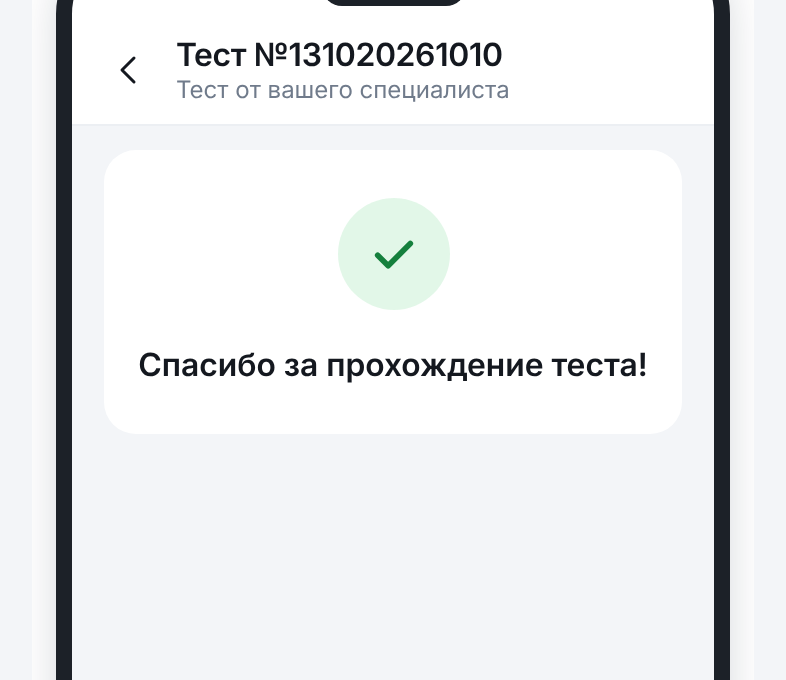
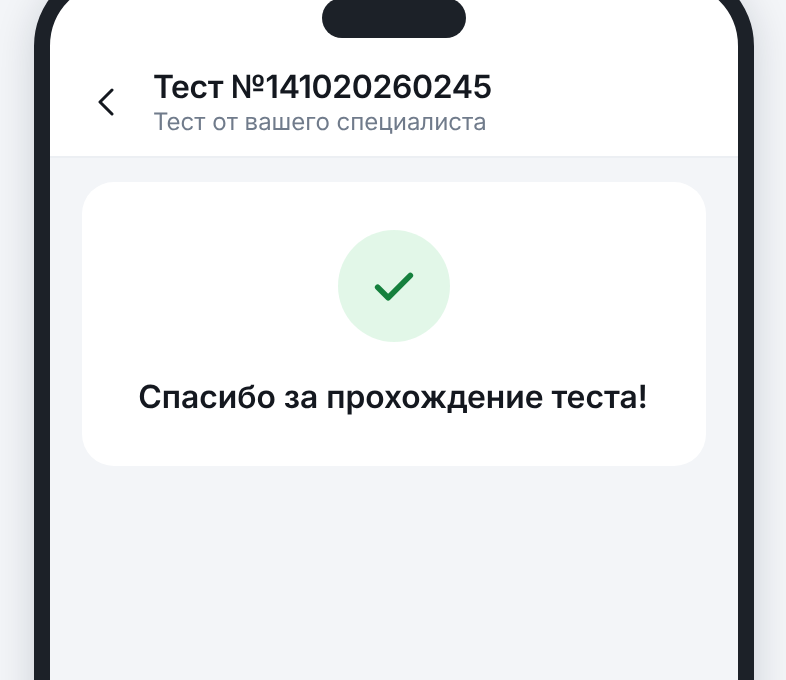
Предпросмотр в настройках: только вкладки и телефон, без карточки; скриншоты подсказок обновлены
Claude-Session: https://claude.ai/code/session_01PkfaRYH7Rjk9UeiToMFzDy

diff --git a/src/components/TestSettings/TaskPreview.tsx b/src/components/TestSettings/TaskPreview.tsx
@@ -2,7 +2,6 @@ import { useEffect, useRef, useState, type TouchEvent } from 'react';
 import type { LibraryTask } from '../../data/library';
 import { emptyValues, progressOf, type PermanentRule, type TaskSettingsData, type TaskValues } from '../../data/taskValues';
 import { ClientIntro, TaskDone, taskFacts } from './ClientParts';
-import { CollapseCard } from './TestBlank';
 import { FillMeter, taskSteps } from './PassParts';
 import { TaskForm } from './TaskForm';
 import { TestHeader } from './TestHeader';
@@ -74,8 +73,7 @@ export function TaskPreview({ task, data, form, options, deadline, permanent }: 
   };
 
   return (
-    <CollapseCard title="Предпросмотр" id="preview">
-    <div className="tp tp--inline" onTouchStart={onTouchStart} onTouchEnd={onTouchEnd}>
+        <div id="preview" className="tp tp--inline" onTouchStart={onTouchStart} onTouchEnd={onTouchEnd}>
       <div className="tp__tabs" role="group" aria-label="Этап выполнения">
         {STAGES.map(({ id, label }) => (
           <button key={id} type="button" className={`tp__tab${stage === id ? ' tp__tab--on' : ''}`} aria-pressed={stage === id} onClick={() => setStage(id)}>
@@ -129,6 +127,5 @@ export function TaskPreview({ task, data, form, options, deadline, permanent }: 
         )}
       </div>
     </div>
-    </CollapseCard>
-  );
+      );
 }

diff --git a/src/components/TestSettings/TestPreview.tsx b/src/components/TestSettings/TestPreview.tsx
@@ -3,7 +3,6 @@ import type { LibraryTest } from '../../data/library';
 import { blindTitle, type ResultMode } from '../../data/resultMode';
 import type { TestBlankData } from '../../data/testBlank';
 import { ClientIntro, testFacts } from './ClientParts';
-import { CollapseCard } from './TestBlank';
 import { FillMeter } from './PassParts';
 import { TestDone } from './TestDone';
 import { TestHeader } from './TestHeader';
@@ -97,8 +96,7 @@ export function TestPreview({ test, blank, blind, result, duration }: TestPrevie
 
   return (
     <>
-      <CollapseCard title="Предпросмотр" id="preview">
-      <div className="tp tp--inline" onTouchStart={onTouchStart} onTouchEnd={onTouchEnd}>
+            <div id="preview" className="tp tp--inline" onTouchStart={onTouchStart} onTouchEnd={onTouchEnd}>
         <div className="tp__tabs" role="group" aria-label="Этап прохождения">
           {STAGES.map(({ id, label }) => (
             <button key={id} type="button" className={`tp__tab${stage === id ? ' tp__tab--on' : ''}`} aria-pressed={stage === id} onClick={() => toStage(id)}>
@@ -159,8 +157,7 @@ export function TestPreview({ test, blank, blind, result, duration }: TestPrevie
           )}
         </div>
       </div>
-      </CollapseCard>
-
+      
       {jumpOpen && (
         <JumpSheet
           total={total}

diff --git a/src/data/optionHelp.ts b/src/data/optionHelp.ts
@@ -51,14 +51,14 @@ export const OPTION_HELP: Record<OptionHelpId, OptionHelp> = {
         alt: 'Экран клиента: в шапке значок и полное название теста',
         title: 'Обычный тест',
         text: 'Клиент видит значок и название методики — он может догадаться, что именно желает проверить специалист.',
-        mark: { x: 21.37, y: 51.91, w: 68.45, h: 12.94 },
+        mark: { x: 18.45, y: 33.09, w: 74.3, h: 12.94 },
       },
       {
         src: blindOn,
         alt: 'Экран клиента: в шапке вместо названия «Тест №» с датой и временем отправки',
         title: 'Слепое тестирование',
         text: 'Значок и название методики скрываются для клиента — иногда, когда не знаешь, что выполняешь, ответы честнее.',
-        mark: { x: 21.37, y: 51.91, w: 68.45, h: 12.94 },
+        mark: { x: 18.45, y: 33.09, w: 74.3, h: 12.94 },
       },
       {
         src: blindChat,

diff --git a/src/components/TestSettings/TestPreview.css b/src/components/TestSettings/TestPreview.css
@@ -6,9 +6,9 @@
   gap: var(--space-3);
 }
 
-/* Блок внутри настроек: поля 12, рамка телефона фиксированной высоты (страница настроек прокручивается, экран внутри рамки — отдельно) */
+/* Предпросмотр внутри настроек, без карточки: вкладки этапов и рамка телефона фиксированной высоты (страница настроек прокручивается, экран внутри рамки — отдельно) */
 .tp--inline {
-  padding: var(--space-3);
+  flex-shrink: 0;
 }
 
 .tp--inline .tp__phone {

diff --git a/scripts/help-shots.py b/scripts/help-shots.py
@@ -187,7 +187,7 @@ def main():
                 phone.close()
 
         if want('result'):
-            # Итог для клиента: блок «Предпросмотр», этап «Конец» (кадр с y = 220; рамок нет)
+            # Итог для клиента: блок «Предпросмотр», этап «Конец» (кадр с y = 140; рамок нет)
             for name, mode in (('result-thanks', 'Только благодарность'), ('result-score', 'Только баллы'), ('result-full', 'Полное заключение')):
                 phone = Phone(p, args.base)
                 phone.open_smol()
@@ -199,7 +199,7 @@ def main():
                 phone.page.get_by_role('button', name='Конец').click()
                 phone.wait(900)
                 phone.page.evaluate("document.querySelector('#preview').scrollIntoView({block: 'start'})")
-                shots.take(phone, name, 220)
+                shots.take(phone, name, 140)
                 phone.close()
 
     print('Рамки для optionHelp.ts (mark):')

diff --git a/README.md b/README.md
@@ -87,7 +87,7 @@ npm run dev
 - В заключении теста у блока «Основные шкалы» (если шкал больше трёх: СМОЛ, SQ, ИТО) в заголовке стоит кнопка порядка: как в тесте → от большего к меньшему → от меньшего к большему (`ScaleSort.tsx`, `TestConclusion.tsx`); номера шкал считаются по месту на экране, «Дополнительные» шкалы всегда идут в порядке теста.
 - Настройки теста: форма бланка выбирается в меню (`FormMenu.tsx`, пояснение про нормы стоит в самом меню) и считывается при прохождении, самого выбора формы при прохождении нет; бланк начинается блоком «Инструкция» (тексты в `data/testBlank.ts` взяты из открытых источников и подогнаны под варианты ответов в приложении); Экран клиента (тест или задание, присланное специалистом или отправленное себе: «Избранное» → «Пройти») собран из тех же блоков, что и самостоятельное прохождение: серый фон, белые карточки, внизу счётчик и кнопки. Это те же `TestPass.tsx` и `TaskPass.tsx`, им передан параметр `client`; клиенту добавлены только блок «Сообщение специалиста», карточка со сведениями (число вопросов или записей и время, срок, «ответы можно менять», кто увидит результат) и в конце карточка «Спасибо» (`ClientParts.tsx`, `TestDone.tsx`); в шапке нет «избранного», а у слепого теста нет значка и название нейтральное. «Предпросмотр теста» (`TestPreview.tsx`) показывает этот же экран в рамке телефона (занимает всё свободное место экрана, сверху неподвижная шторка с «островком», кнопки внизу всегда видны): начало, вопрос с ответами и завершение; между этапами можно листать свайпом, «Назад» на первом вопросе возвращает к началу; блок «Итог для клиента» (`ResultChoice.tsx`, `data/resultMode.ts`) задает, что клиент увидит после теста: благодарность (по умолчанию), баллы или полное заключение; инструкция показана обычными абзацами без номеров
 - Настройки задания (`TaskSettings.tsx`) собраны по образцу экрана теста; сейчас они есть у девяти заданий: «Что я должен?», «Если никто не узнает», «Фраза, которую я запомнил», «Выбор без правильного ответа», «Пирог ответственности», «Дневник СМЭР», «Отложенное беспокойство», «Поведенческая активация» и «Поиск доказательств». Тексты, правила, разделы бланка, пример и объём лежат в `data/taskContent.ts` (типы и общие функции — в `taskValues.ts`, чтобы главный пакет не тянул тексты; `TASKS_WITH_SETTINGS` перечисляет задания с настройками). Бланк рисует один общий `TaskForm.tsx` (предложение с выбором начала, текст, ползунок процентов, «пирог» из факторов; доля клиента — остаток до 100; шкала 0–10 `scale`, выбор `choice` — один списком, несколько чипсами, список строк `list` и записи `entries` — повторяющиеся наборы полей по группам, которые клиент добавляет и убирает, до семи): он же в бланке и примере в настройках, в прохождении (`TaskPass.tsx`; счётчик «Заполнено» и окна подтверждения общие с тестом, `PassParts.tsx`), в экране клиента, в предпросмотре в рамке телефона (`TaskPreview.tsx`) и в результате (`TaskResult.tsx`). При выполнении (и в предпросмотре) задание идёт страницами: инструкция, поля бланка, затем «Комментарий» и «Как вы себя чувствуете?», если они включены в настройках; переход — «Далее», на последней странице «Завершить задание» (`TaskForm` показывает нужную страницу по параметру `only`, порядок задаёт `taskSteps` в `PassParts.tsx`). Если в бланке задан `pages` (группы разделов), страницы идут по нему: у «Поиска доказательств» каждый раздел отдельно, у «Пирога ответственности» — событие с оценкой «до», «что повлияло», оценка «после» с комментарием; у «Отложенного беспокойства» каждое беспокойство — отдельная страница (`each:<раздел>`, новое открывается следующей страницей), а поля из `late` («Насколько оно тревожит теперь?») собраны на последней странице с комментарием (`late:<раздел>`). В записи дневника СМЭР эмоции — список (`list`), их можно добавлять. Пустые поля можно пропустить после подтверждения, но не все сразу. Бланк задания сохраняется в результате всегда: настройки «Сохранить бланк» у заданий нет (у тестов она есть). Задание, отправленное себе, проходится по-настоящему и сохраняет результат (`data/selfTask.ts`: `t<номер>` — свои, `maxim-<задание>` — клиента); результаты четырех заданий Максима тестовые (`clientTaskResults.ts`), открываются из «Заданий» чата, «Событий» и «Истории». Кнопка «Настройки задания» под отправленным клиенту заданием открывает `MessageBubble/SentTaskSheet.tsx`; настройки лежат в самом сообщении (`taskOptions`). У заданий с записями («Дневник СМЭР», «Отложенное беспокойство», «Поведенческая активация») «форма бланка» — число записей на старте (1, 2, 3, 5 или 7, по умолчанию 3; `formCount`, `formLabel`), «Поиск доказательств» без формы. Тексты этих четырех заданий и «Пирога ответственности» написаны по описанию техник, а не по присланным материалам, и ждут проверки специалистом; черновик выполняемого задания живет, пока открыто приложение
-- Экран настроек задания, блоки по порядку: «Описание задания», бланк / пример выполнения, «Общая информация» (только время выполнения и возраст), «Интерпретация задания» (цель и анализ; меток «Направления» нет, `approaches` в `TaskSettingsData` остались в данных), «Особенности задания» (при наличии выбор формы бланка или числа записей, комментарий клиента, оценка состояния, «Назначить постоянным» и связанные строки), сообщение клиенту и внизу «Предпросмотр» (рамка телефона прямо в настройках: вкладки «Начало / В процессе / Конец» и кнопки, как у теста, без сообщения специалиста). Срока выполнения и напоминания в настройках заданий нет: задание уходит без срока. Темы материала у заданий не показываются. Блока «Происхождение задания» с научной основой и авторством нет. «Назначить постоянным»: клиент выполняет задание не один раз, а когда нужно (записать сон, вести дневник СМЭР), каждое выполнение — отдельная запись. Когда он включён, появляется «Всего записей» (без лимита, 3, 5, 7, 10, 14, 20, 30: `PERMANENT_LIMITS` в `taskValues.ts`), а «Срок выполнения» и «Напомнить, если не выполнено» сворачиваются: у постоянного задания их нет. Правило (`PermanentRule`) лежит в `taskOptions.permanent` сообщения и в журнале клиента (`Activity.permanent`); в сообщение клиенту вместо строки про срок добавляется «Задание постоянное: выполняйте его снова, когда это нужно. Всего записей: N», предпросмотр и экран клиента показывают то же («Постоянное задание: всего записей — N», в конце «Спасибо, запись добавлена»). Кнопка «Настройки задания» под карточкой показывает правило, подпись карточки — «Постоянное задание» (у выполненной записи — «Запись задания»).
+- Экран настроек задания, блоки по порядку: «Описание задания», бланк / пример выполнения, «Общая информация» (только время выполнения и возраст), «Интерпретация задания» (цель и анализ; меток «Направления» нет, `approaches` в `TaskSettingsData` остались в данных), «Особенности задания» (при наличии выбор формы бланка или числа записей, комментарий клиента, оценка состояния, «Назначить постоянным» и связанные строки), сообщение клиенту и внизу «Предпросмотр» (вкладки и рамка телефона прямо в настройках, без белой карточки: вкладки «Начало / В процессе / Конец» и кнопки, как у теста, без сообщения специалиста). Срока выполнения и напоминания в настройках заданий нет: задание уходит без срока. Темы материала у заданий не показываются. Блока «Происхождение задания» с научной основой и авторством нет. «Назначить постоянным»: клиент выполняет задание не один раз, а когда нужно (записать сон, вести дневник СМЭР), каждое выполнение — отдельная запись. Когда он включён, появляется «Всего записей» (без лимита, 3, 5, 7, 10, 14, 20, 30: `PERMANENT_LIMITS` в `taskValues.ts`), а «Срок выполнения» и «Напомнить, если не выполнено» сворачиваются: у постоянного задания их нет. Правило (`PermanentRule`) лежит в `taskOptions.permanent` сообщения и в журнале клиента (`Activity.permanent`); в сообщение клиенту вместо строки про срок добавляется «Задание постоянное: выполняйте его снова, когда это нужно. Всего записей: N», предпросмотр и экран клиента показывают то же («Постоянное задание: всего записей — N», в конце «Спасибо, запись добавлена»). Кнопка «Настройки задания» под карточкой показывает правило, подпись карточки — «Постоянное задание» (у выполненной записи — «Запись задания»).
 - Записи постоянного задания. В чате клиента (пока Максим) вкладка «Задания» делится на «Отправленные», «Постоянные», «Завершенные»: постоянное задание стоит в «Постоянных» с числом записей («Записей: 2 из 10»), а каждая новая запись клиента появляется среди завершённых отдельной карточкой «Запись N» — по нажатию открывается её результат (экран `TaskResult`, в общей информации «Запись задания: №N»). Запись — действие журнала `clientStore.ts` с полем `record`, номер её результата — `<чат>-<задание>-r<N>` (`recordRef` в `resultLinks.ts`); в диалоге у неё карточка «Запись задания» с кнопкой «Посмотреть», в «Истории» и «Событиях» — строка «Максим добавил запись N…» со ссылкой. Когда записей набрано столько, сколько назначено, карточка уходит из «Постоянных» и остаётся история записей. Ответы клиентов в приложении не симулируются: у Максима дневник СМЭР назначен постоянным (всего 10 записей) и две записи уже сделаны, их результаты тестовые (`clientTaskResults.ts`). У задания, отправленного себе, записи настоящие: «Пройти» на карточке в «Избранном» каждый раз добавляет запись (`finishTaskRun(…, assignment)` в `selfTask.ts`), на карточке счётчик «Записей: 1 из 3», после лимита кнопка «Все записи выполнены»; записи видны во вкладке «Задания» чата «Избранное».
 - `src/data/topics.ts` — темы материалов (теги в конце настроек теста и задания: «тревога», «депрессия», «когнитивно-поведенческая терапия» и т.д.); тег только показывает тему, нажать на него нельзя
 - `src/assets/` — иконки (SVG), аватарки. Иконки вкладки «Запись на прием» лежат в `assets/icons/booking/` и подключены в `components/icons/index.tsx`: все присланные (`status-*` — статусы в истории приемов: `done` состоялся, `cancelled` отменен или отказ, `moved` перенесен, `pending` не согласован); значок можно заменить файлом с тем же именем; значок самой вкладки — `chat/tab-booking.svg` (цвета `#0088FF`/`#1E1E1E`/`#818C99`/`#A0A9B3` при сборке становятся цветом текста)
